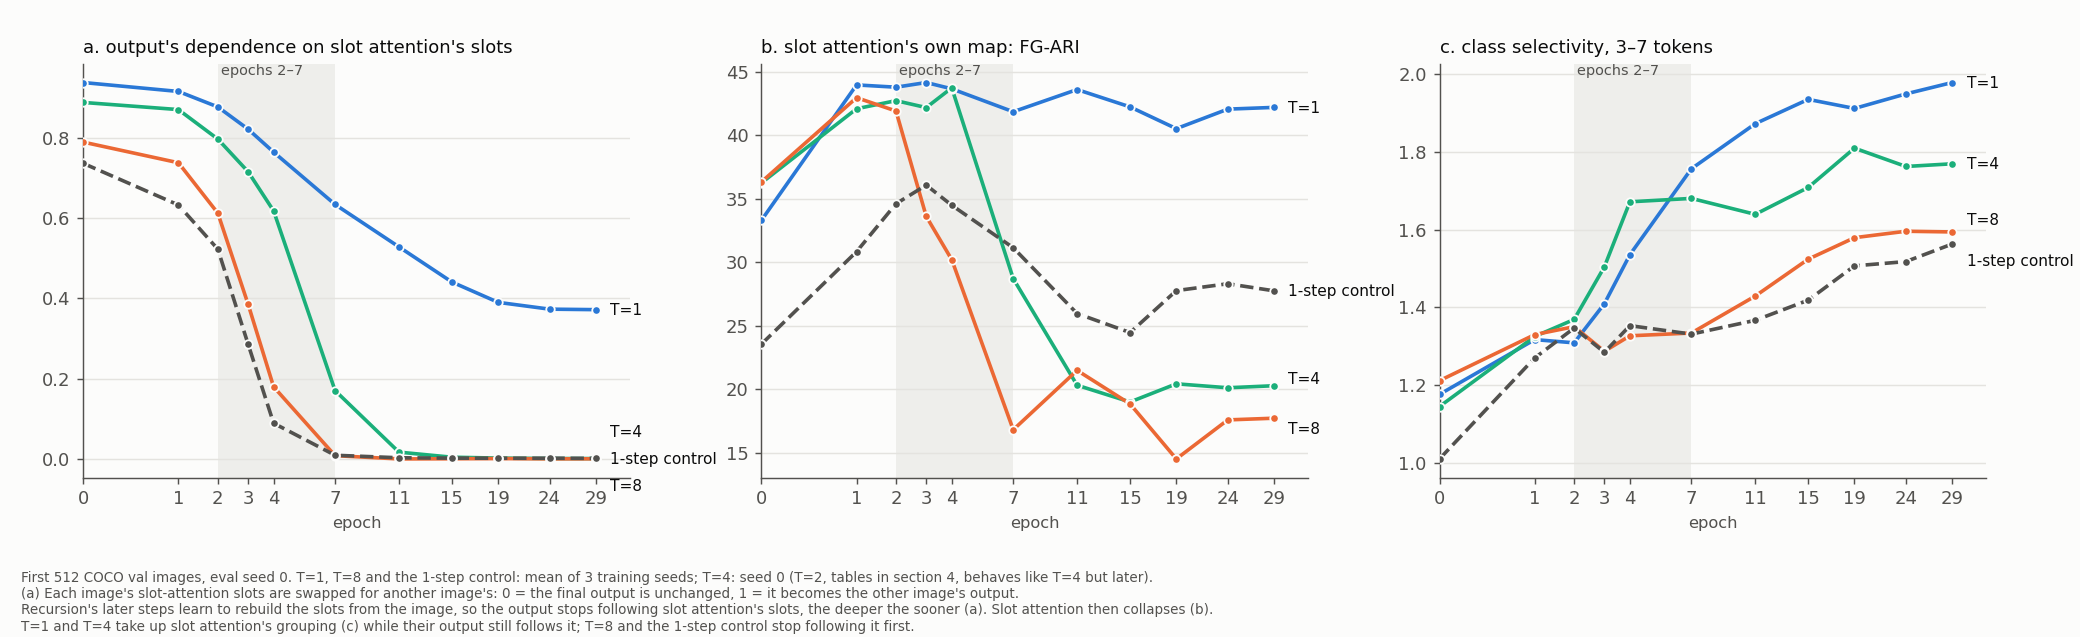
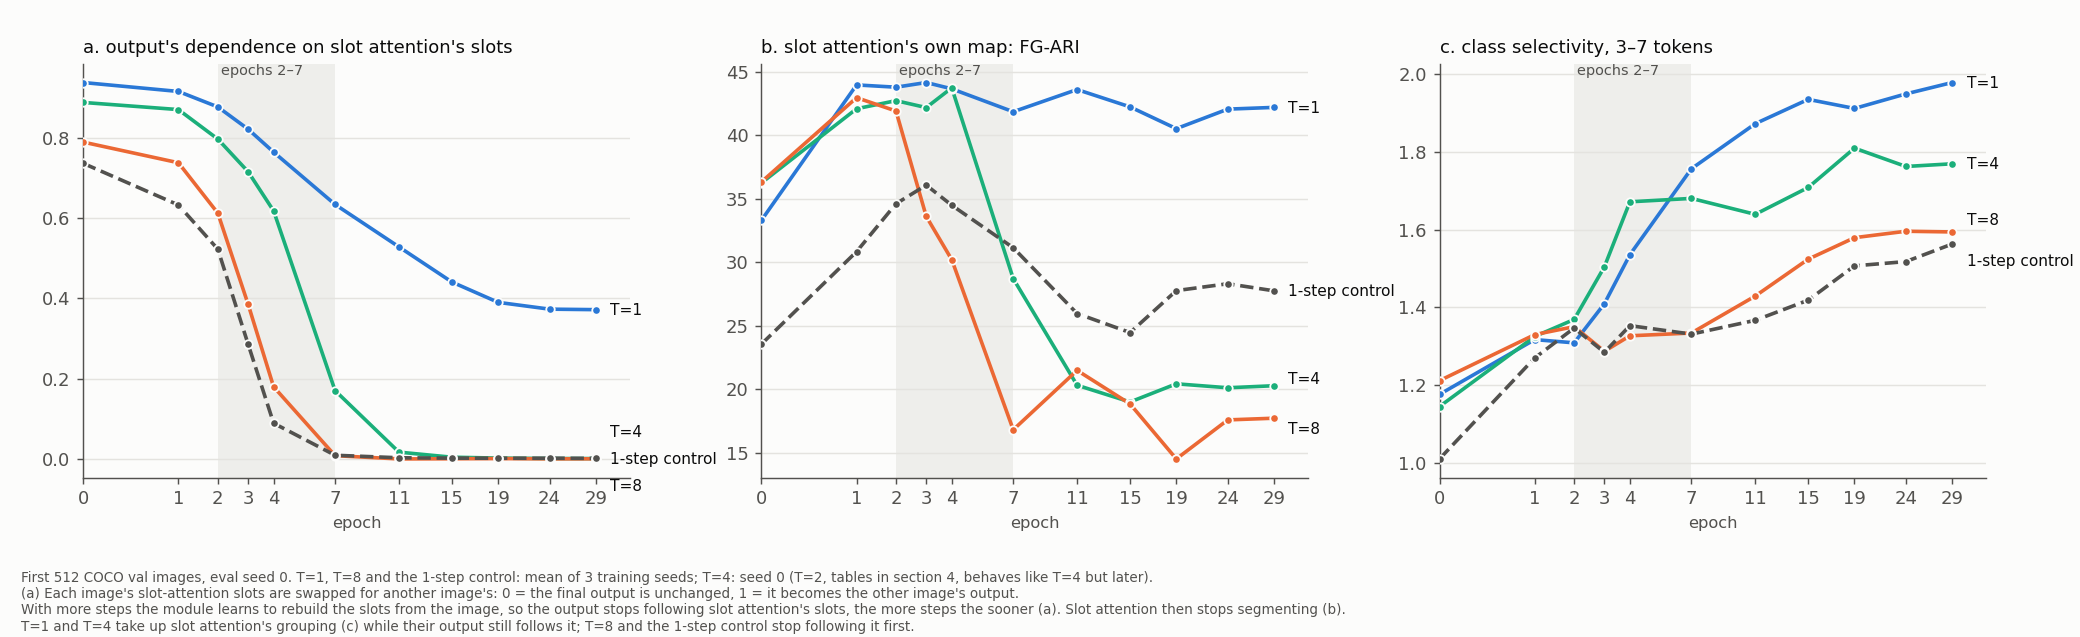
Redraw the README's training figure with the weight-sharing controls
The new figure adds the wide shared block and the separate blocks, and a panel for shared against separate weights, so each point in the section is on the figure. The section says what the module stops doing and how that is measured. The detailed figure's footnote no longer credits recursion.

Changed region(s): [[0.0, 0.9246, 0.6562, 0.9843]]

diff --git a/scripts/mechanism/fig_takeover.py b/scripts/mechanism/fig_takeover.py
@@ -1,0 +1,140 @@
+"""Figure readme_takeover.png for the main README: what training with 8 steps does to slot
+attention, with the two controls that separate the number of steps from weight sharing.
+
+Panels a to c follow training on the first 512 COCO validation images (eval seed 0). Lines
+are 3-seed means and bands the range of the seeds:
+  a  how far the output follows slot attention's slots (the swap test of handover.py)
+  b  FG-ARI of slot attention's own attention map
+  c  class selectivity of the output at 3-7 tokens
+for T=1, T=8, T=8 with one wide shared block (trm_wide) and T=8 with a separate block per
+step (trm_untied). Panel d: the wide shared block minus the separate blocks on the four
+segmentation scores of the final output, on all 2,000 images, paired per image and averaged
+over the three seed pairs, with 95% image-bootstrap intervals.
+Reads c/handover_*.npz (handover.py), c/sel_curve*.npz (sel_curve.py), c/curve_sa_sum.npz
+(curve_sa_an.py), c/sa_curve_any.npz (sa_curve_any.py) and c/mechc_trm_{wide,untied}*.npz
+(mech_ctrl.py).
+Usage: fig_takeover.py C OUT_DIR"""
+import glob
+import sys
+
+import matplotlib
+matplotlib.use("Agg")
+import matplotlib.pyplot as plt  # noqa: E402
+import numpy as np  # noqa: E402
+
+C, OUT = sys.argv[1], sys.argv[2]
+SURF, INK, INK2, GRID = "#fcfcfb", "#0b0b0b", "#52514e", "#e4e3df"
+plt.rcParams.update({"font.size": 10, "axes.edgecolor": INK2, "axes.labelcolor": INK, "xtick.color": INK2,
+                     "ytick.color": INK2, "text.color": INK, "figure.facecolor": SURF, "axes.facecolor": SURF,
+                     "axes.spines.top": False, "axes.spines.right": False})
+SEEDS = ["", "_seed1", "_seed2"]
+# label, run base name, colour, marker
+MODELS = [("1 step (T=1)", "trm_t1", "#2a78d6", "o"),
+          ("8 steps, one small shared block (T=8)", "trm", "#eb6834", "s"),
+          ("8 steps, one wide shared block", "trm_wide", "#1baf7a", "^"),
+          ("8 steps, a separate block per step", "trm_untied", "#eda100", "D")]
+
+SEL = {}
+for f in glob.glob(f"{C}/sel_curve*.npz"):
+    if not f.endswith("_sa.npz"):
+        SEL.update(np.load(f))
+SA = {**np.load(f"{C}/curve_sa_sum.npz"), **np.load(f"{C}/sa_curve_any.npz")}
+HO = {}
+for f in glob.glob(f"{C}/handover_*.npz"):
+    if not f.endswith("_test.npz"):
+        HO.update(np.load(f))
+
+
+def follows(base, e):
+    """Swap test, per seed: 1 = the output follows slot attention's slots, 0 = it ignores them."""
+    out = []
+    for s in SEEDS:
+        k = f"{base}{s}|e{e}"
+        if f"{k}|err" not in HO:
+            return None
+        m, mr, mo = HO[f"{k}|err"][:, -1].mean(), HO[f"{k}|err_roll"][:, -1].mean(), HO[f"{k}|err_other"].mean()
+        out.append((mr - m) / (mo - m))
+    return out
+
+
+def sa_map(base, e):
+    """FG-ARI of slot attention's own map, per seed."""
+    keys = [f"{base}{s}|e{e}|fg_ari" for s in SEEDS]
+    return [100 * float(SA[k]) for k in keys] if all(k in SA for k in keys) else None
+
+
+def selectivity(base, e):
+    """Class selectivity of the output at 3-7 tokens, per seed."""
+    pooled = f"{base}{{s}}|e{e}"  # T=1 and T=8 are stored with one row per seed
+    if pooled in SEL:
+        a = SEL[pooled]
+    elif all(f"{base}{s}|e{e}" in SEL for s in SEEDS):
+        a = np.concatenate([SEL[f"{base}{s}|e{e}"] for s in SEEDS])
+    else:
+        return None
+    return list(a[:, 1, 1] / a[:, 2, 1])
+
+
+def shared_minus_separate(metric, n_boot=5000):
+    """Wide shared block minus separate blocks, final step, in points: mean and 95% interval."""
+    d = np.mean([np.load(f"{C}/mechc_trm_wide{s}.npz")[f"trm_wide{s}|step8|{metric}"]
+                 - np.load(f"{C}/mechc_trm_untied{s}.npz")[f"trm_untied{s}|step8|{metric}"] for s in SEEDS], 0)
+    d = 100 * d[~np.isnan(d)]
+    boot = d[np.random.default_rng(0).integers(0, len(d), (n_boot, len(d)))].mean(1)
+    return d.mean(), np.percentile(boot, 2.5), np.percentile(boot, 97.5)
+
+
+fig, axes = plt.subplots(2, 2, figsize=(11, 7.9), gridspec_kw={"wspace": 0.2, "hspace": 0.42})
+EPOCHS = range(30)
+PANELS = [(axes[0, 0], "a. How far the output follows slot attention's slots", follows),
+          (axes[0, 1], "b. FG-ARI of slot attention's own map", sa_map),
+          (axes[1, 0], "c. How strongly the output groups by class", selectivity)]
+for ax, title, fn in PANELS:
+    ax.set_xscale("function", functions=(np.sqrt, np.square))
+    ax.yaxis.grid(True, color=GRID, lw=0.8, zorder=0)
+    for label, base, colour, marker in MODELS:
+        pts = [(e, fn(base, e)) for e in EPOCHS]
+        x = [e for e, v in pts if v is not None]
+        v = np.array([v for _, v in pts if v is not None])  # (epochs, seeds)
+        ax.fill_between(x, v.min(1), v.max(1), color=colour, alpha=0.16, lw=0, zorder=1)
+        ax.plot(x, v.mean(1), color=colour, lw=2, marker=marker, markersize=5, markeredgecolor=SURF,
+                markeredgewidth=0.9, label=label, zorder=2)
+        print(f"{title[:2]} {label:38s} " + " ".join(f"e{e}:{m:.2f}" for e, m in zip(x, v.mean(1))))
+    ax.set_xticks([0, 1, 2, 4, 7, 11, 19, 29])
+    ax.set_xlim(0, 30.5)
+    ax.set_xlabel("training epoch", color=INK2, fontsize=9)
+    ax.set_title(title, fontsize=10.5, loc="left", color=INK)
+axes[0, 0].set_ylim(-0.04, 1.0)
+axes[0, 0].text(30, 0.97, "1 = follows them fully", fontsize=8.5, color=INK2, ha="right", va="top")
+axes[0, 0].text(30, 0.045, "0 = ignores them", fontsize=8.5, color=INK2, ha="right", va="bottom")
+axes[1, 0].text(30, axes[1, 0].get_ylim()[0] + 0.02, "1 = no preference for same-class patches", fontsize=8.5,
+                color=INK2, ha="right", va="bottom")
+
+ax = axes[1, 1]
+ROWS = [("FG-ARI", "fg_ari"), ("mBO_i", "mbo_i"), ("mBO_c", "mbo_c"), ("ARI counting\nbackground", "ari_all")]
+ax.axvline(0, color=INK2, lw=1, zorder=1)
+ax.xaxis.grid(True, color=GRID, lw=0.8, zorder=0)
+for i, (label, metric) in enumerate(ROWS):
+    mean, lo, hi = shared_minus_separate(metric)
+    y = len(ROWS) - 1 - i
+    ax.plot([lo, hi], [y, y], color=INK, lw=1.6, zorder=2)
+    ax.plot([mean], [y], marker="o", markersize=7, color=INK, markeredgecolor=SURF, markeredgewidth=1, zorder=3)
+    ax.text(hi + 0.04, y, f"{mean:+.2f}".replace("-", "−"), fontsize=9, color=INK, va="center")
+    print(f"d. {metric:8s} {mean:+.2f} [{lo:+.2f}, {hi:+.2f}]")
+ax.set_yticks(range(len(ROWS)))
+ax.set_yticklabels([r[0] for r in ROWS][::-1], color=INK)
+ax.set_ylim(-0.6, len(ROWS) - 0.4)
+ax.set_xlim(-1.05, 0.35)
+ax.set_xlabel("one shared block minus a block per step, in points", color=INK2, fontsize=9)
+ax.set_title("d. Shared weights against separate blocks, at 8 steps", fontsize=10.5, loc="left", color=INK)
+ax.text(-1.02, -0.5, "left of zero: the shared block scores lower", fontsize=8.5, color=INK2, va="bottom")
+ax.tick_params(axis="y", length=0)
+
+handles, labels = axes[0, 0].get_legend_handles_labels()
+fig.legend(handles, labels, frameon=False, fontsize=9.5, loc="upper center", ncol=2, bbox_to_anchor=(0.5, 0.995))
+fig.text(0.012, 0.012, "Panels a to c: first 512 COCO validation images; line = mean of 3 training seeds, band = their range. "
+         "Panel d: all 2,000 images, both models at 23.5M parameters,\n95% intervals from resampling images. "
+         "The small shared block has 6.40M parameters in total, like T=1.", fontsize=8, color=INK2)
+fig.subplots_adjust(left=0.065, right=0.975, top=0.875, bottom=0.115)
+fig.savefig(f"{OUT}/readme_takeover.png", dpi=130)
+print(f"figure: {OUT}/readme_takeover.png")

diff --git a/scripts/mechanism/fig_race.py b/scripts/mechanism/fig_race.py
@@ -84,8 +84,8 @@ fig.text(0.01, 0.01, "First 512 COCO val images, eval seed 0. T=1, T=8 and the 1
          "(T=2, tables in section 4, behaves like T=4 but later).\n"
          "(a) Each image's slot-attention slots are swapped for another image's: 0 = the final output is unchanged, 1 = it becomes "
          "the other image's output.\n"
-         "Recursion's later steps learn to rebuild the slots from the image, so the output stops following slot attention's slots, "
-         "the deeper the sooner (a). Slot attention then collapses (b).\n"
+         "With more steps the module learns to rebuild the slots from the image, so the output stops following slot attention's slots, "
+         "the more steps the sooner (a). Slot attention then stops segmenting (b).\n"
          "T=1 and T=4 take up slot attention's grouping (c) while their output still follows it; T=8 and the 1-step control "
          "stop following it first.", fontsize=7.5, color=INK2)
 fig.subplots_adjust(left=0.04, right=0.955, top=0.9, bottom=0.25)

diff --git a/README.md b/README.md
@@ -64,23 +64,29 @@ is the overlap of the best slot with each object (i) or each class (c).
 
 ## What the 8 steps do instead
 
-![How far the output follows slot attention's slots, the FG-ARI of slot attention's own map, and the output's class selectivity, over training](results/coco/diagnostics/recursion_race.png)
+![Over training: how far the output follows slot attention's slots, the FG-ARI of slot attention's own map, and how strongly the output groups by class, for four models; and shared weights against separate blocks](results/figures/readme_takeover.png)
 
-*(a) How far the output still follows slot attention's slots: 1 is fully, 0 is not at
-all. (b) FG-ARI of slot attention's own map. (c) How strongly the output groups by
-class. "1-step control" is T=8 with the gradient cut between steps, as TRM trains.*
+The module is meant to refine the 7 slots that slot attention hands it. But it also reads
+the image patches itself, through cross-attention, so it has a second way to make slots.
 
-- **The module takes over from slot attention.** It reads the image itself through
-  cross-attention. Trained with more steps, it stops using slot attention's slots and
-  builds its own (a), and slot attention stops segmenting (b).
-- **That is not specific to recursion.** It happens sooner with a separate block per
-  step than with shared weights. Without the module's cross-attention, 8 steps change
-  nothing (one seed).
-- **Only the small shared block trained from scratch then divides the image by
-  position.** A wider shared block, separate blocks, and the same block started from
-  T=1's weights all keep T=1's grouping by appearance.
-- **Shared weights add nothing measurable.** At equal depth and parameters they score
-  0.6 FG-ARI below separate blocks.
+- **With 8 steps the module stops using slot attention's slots (a).** It makes the slots
+  from the patches by itself. The test is to hand the module the slots of a different
+  image and see whether its output changes. By the end of training, with 1 step the
+  output moves 37% of the way to the other image's output. With 8 steps it does not move
+  at all.
+- **Slot attention then stops segmenting (b).** Nothing uses its slots any more, and the
+  FG-ARI of its own map falls from 43 to 18.
+- **This goes with the number of steps, not with shared weights (a).** Every 8-step
+  model ends at 12% or below, and with a separate block for each step it happens sooner.
+  It needs the cross-attention: without it, 8 steps change nothing (one seed, not drawn).
+- **Only the small shared block then stops grouping by class (c).** T=8's output ends at
+  1.6, against 2.0 for T=1, where 1 means no preference for same-class patches. This is
+  the model that divides the image by position. With a wider shared block, or a block per
+  step, the 8-step model ends at 1.9. The small block also keeps most of it, 1.8, when
+  it starts from T=1's trained weights (one seed, not drawn).
+- **Sharing weights adds nothing measurable (d).** At 8 steps and 23.5M parameters, one
+  shared block scores below a separate block per step on all four scores: by 0.6 FG-ARI
+  [0.2, 0.9] and by about 0.2 on the other three.
 
 ## Recursion inside slot attention
 

diff --git a/scripts/mechanism/README.md b/scripts/mechanism/README.md
@@ -72,6 +72,7 @@ These scripts produce the numbers in `results/coco/diagnostics/recursion_mechani
    | `fig_profile.py C OUT` | `recursion_profile.png` |
    | `fig_examples.py C OUT` | `recursion_examples.png` |
    | `fig_readme.py C results/figures` | `readme_examples.png`: the main README's two examples, chosen for clarity |
+   | `fig_takeover.py C results/figures` | `readme_takeover.png`: the main README's training curves for T=1, T=8, the wide shared block and the separate blocks, and the shared-against-separate differences |
    | `fig_selectivity.py C OUT` | `recursion_selectivity.png`: reconstruction error against class selectivity and long-range locality (5) |
    | `fig_race.py C OUT` | `recursion_race.png`: the output's dependence on slot attention's slots, slot attention's own map and class selectivity over training (4) |
 
